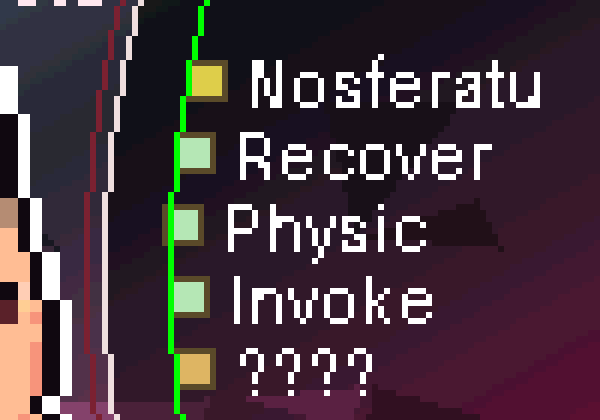
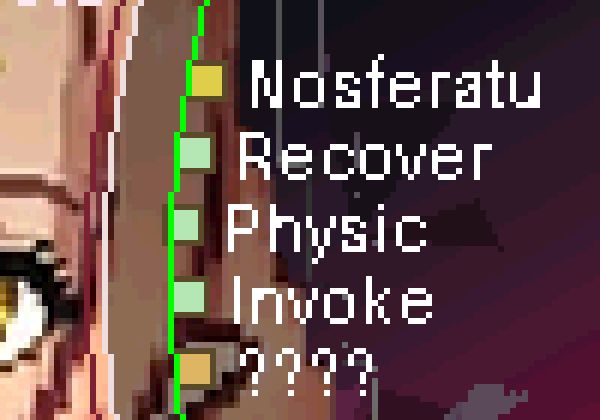
Retrato 3: recorte grande de cabeza (cara mucho más grande), fondo quitado
Claude-Session: https://claude.ai/code/session_01C4QAM7MwvCQVjJLG12SBSt

diff --git a/gba_status/preparar_retrato_3.py b/gba_status/preparar_retrato_3.py
@@ -1,0 +1,20 @@
+"""Prepara retrato_3.png desde retrato_3_fuente.webp: recorta cabeza y hombros, quita el fondo
+morado y el contorno blanco/negro del sprite (relleno desde los bordes), escala y cuantiza a RGB555."""
+from PIL import Image
+src = Image.open("retrato_3_fuente.webp").convert("RGB").crop((100, 20, 440, 320))
+ESC = 0.86
+img = src.resize((round(src.width * ESC), round(src.height * ESC)), Image.LANCZOS)
+W, H = img.size; px = img.load()
+def es_fondo(p):
+    r, g, b = p
+    return (b > r + 5 and b > g) or min(p) > 190 or max(p) < 60   # morado, contorno blanco o negro
+fondo = set(); pila = [(x, y) for x in range(W) for y in (0, H - 1)] + [(x, y) for y in range(H) for x in (0, W - 1)]
+while pila:
+    x, y = pila.pop()
+    if 0 <= x < W and 0 <= y < H and (x, y) not in fondo and es_fondo(px[x, y]):
+        fondo.add((x, y)); pila += [(x + 1, y), (x - 1, y), (x, y + 1), (x, y - 1)]
+q5 = lambda v: (v >> 3) << 3 | (v >> 5)
+for y in range(H):
+    for x in range(W):
+        px[x, y] = (255, 0, 255) if (x, y) in fondo else tuple(q5(v) for v in px[x, y])
+img.save("retrato_3.png"); print(img.size)

diff --git a/gba_status/generar.py b/gba_status/generar.py
@@ -64,6 +64,7 @@ elif FONDO == "negro":
 # (el punto medio entre los ojos cae en ~(110, 84) de la pantalla)
 RETRATOS = {
     "kairos": ("retrato_busto.png", (77, 26, 77), -26, 17, 3.2),
+    "3": ("retrato_3.png", (255, 0, 255), -30, -20, 1.0),
     "2": ("retrato_2.png", (169, 203, 166), 1, 25, 2.4),
 }
 _arch, bgc, RX, RY, ESC_R = RETRATOS[os.environ.get("RETRATO", "kairos")]
